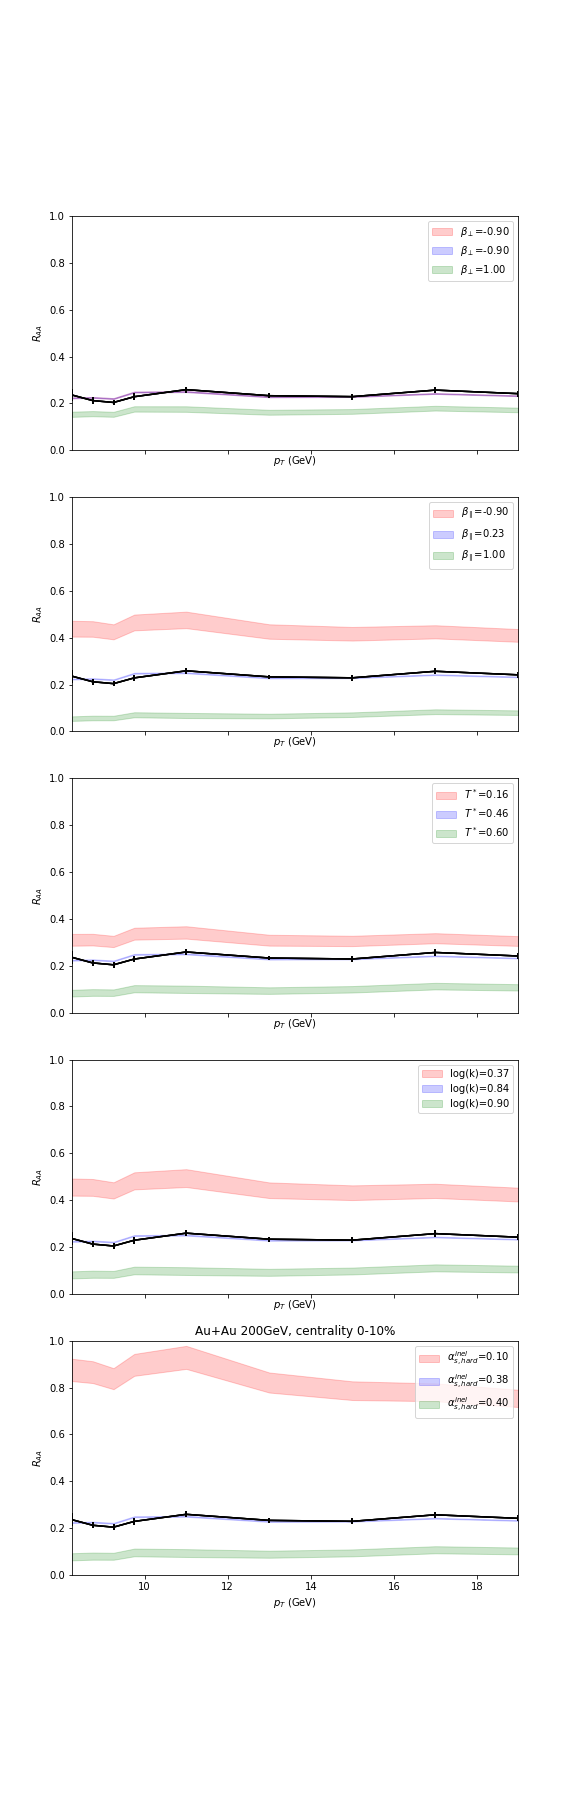
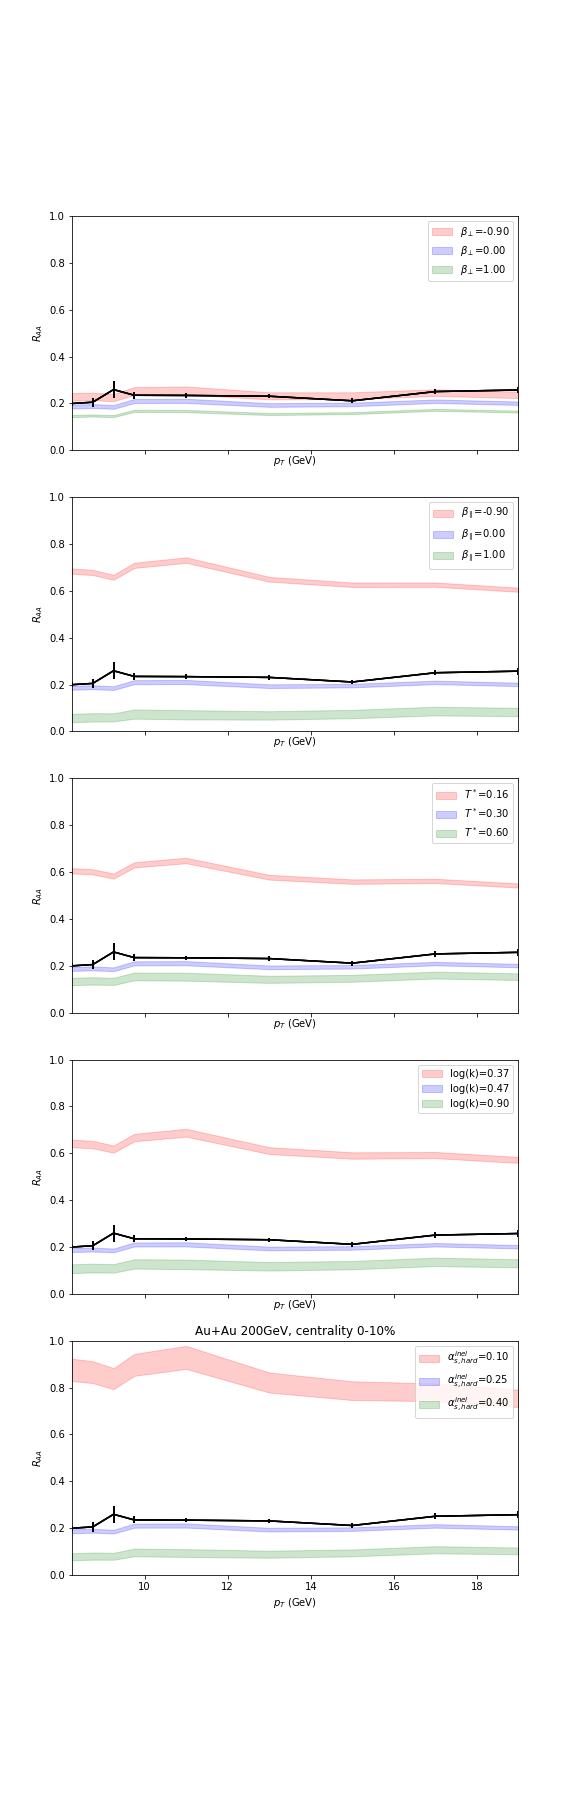
dd

diff --git a/src/dimensional_reduction/collect_output_1ob.py b/src/dimensional_reduction/collect_output_1ob.py
@@ -1,6 +1,6 @@
 import numpy as np
 
-n_dp = [_ for _ in range(20)]
+n_dp = [_ for _ in range(40)]
 # n_dp.append(21)
 # n_dp.append(72)
 # n_dp.append(73)
@@ -38,7 +38,7 @@ output_err = data.T[2]
 # output_err = np.concatenate((output_err_1, output_err_2), axis=0)
 np.savetxt('../../data/running_coupling/data_exp_err_1obs', output_err.T)
 
-data = np.loadtxt("../../data/running_coupling/AuAu200/centrality0-10/dps/RAA_dp0")
+data = np.loadtxt("../../data/running_coupling/AuAu200/centrality0-10/dps/RAA_true")
 output = data.T[1]
 # output = np.concatenate((output_1, output_2), axis=0)
 np.savetxt('../../data/running_coupling/data_val_1obs', output.T)

diff --git a/data/running_coupling/conv_dps.py b/data/running_coupling/conv_dps.py
@@ -7,7 +7,7 @@ Tstar = []
 Q0 = []
 ghard = []
 
-dps_list = [_ for _ in range(20)]
+dps_list = [_ for _ in range(40)]
 # dps_list.append(21)
 # dps_list.append(72)
 # dps_list.append(73)
